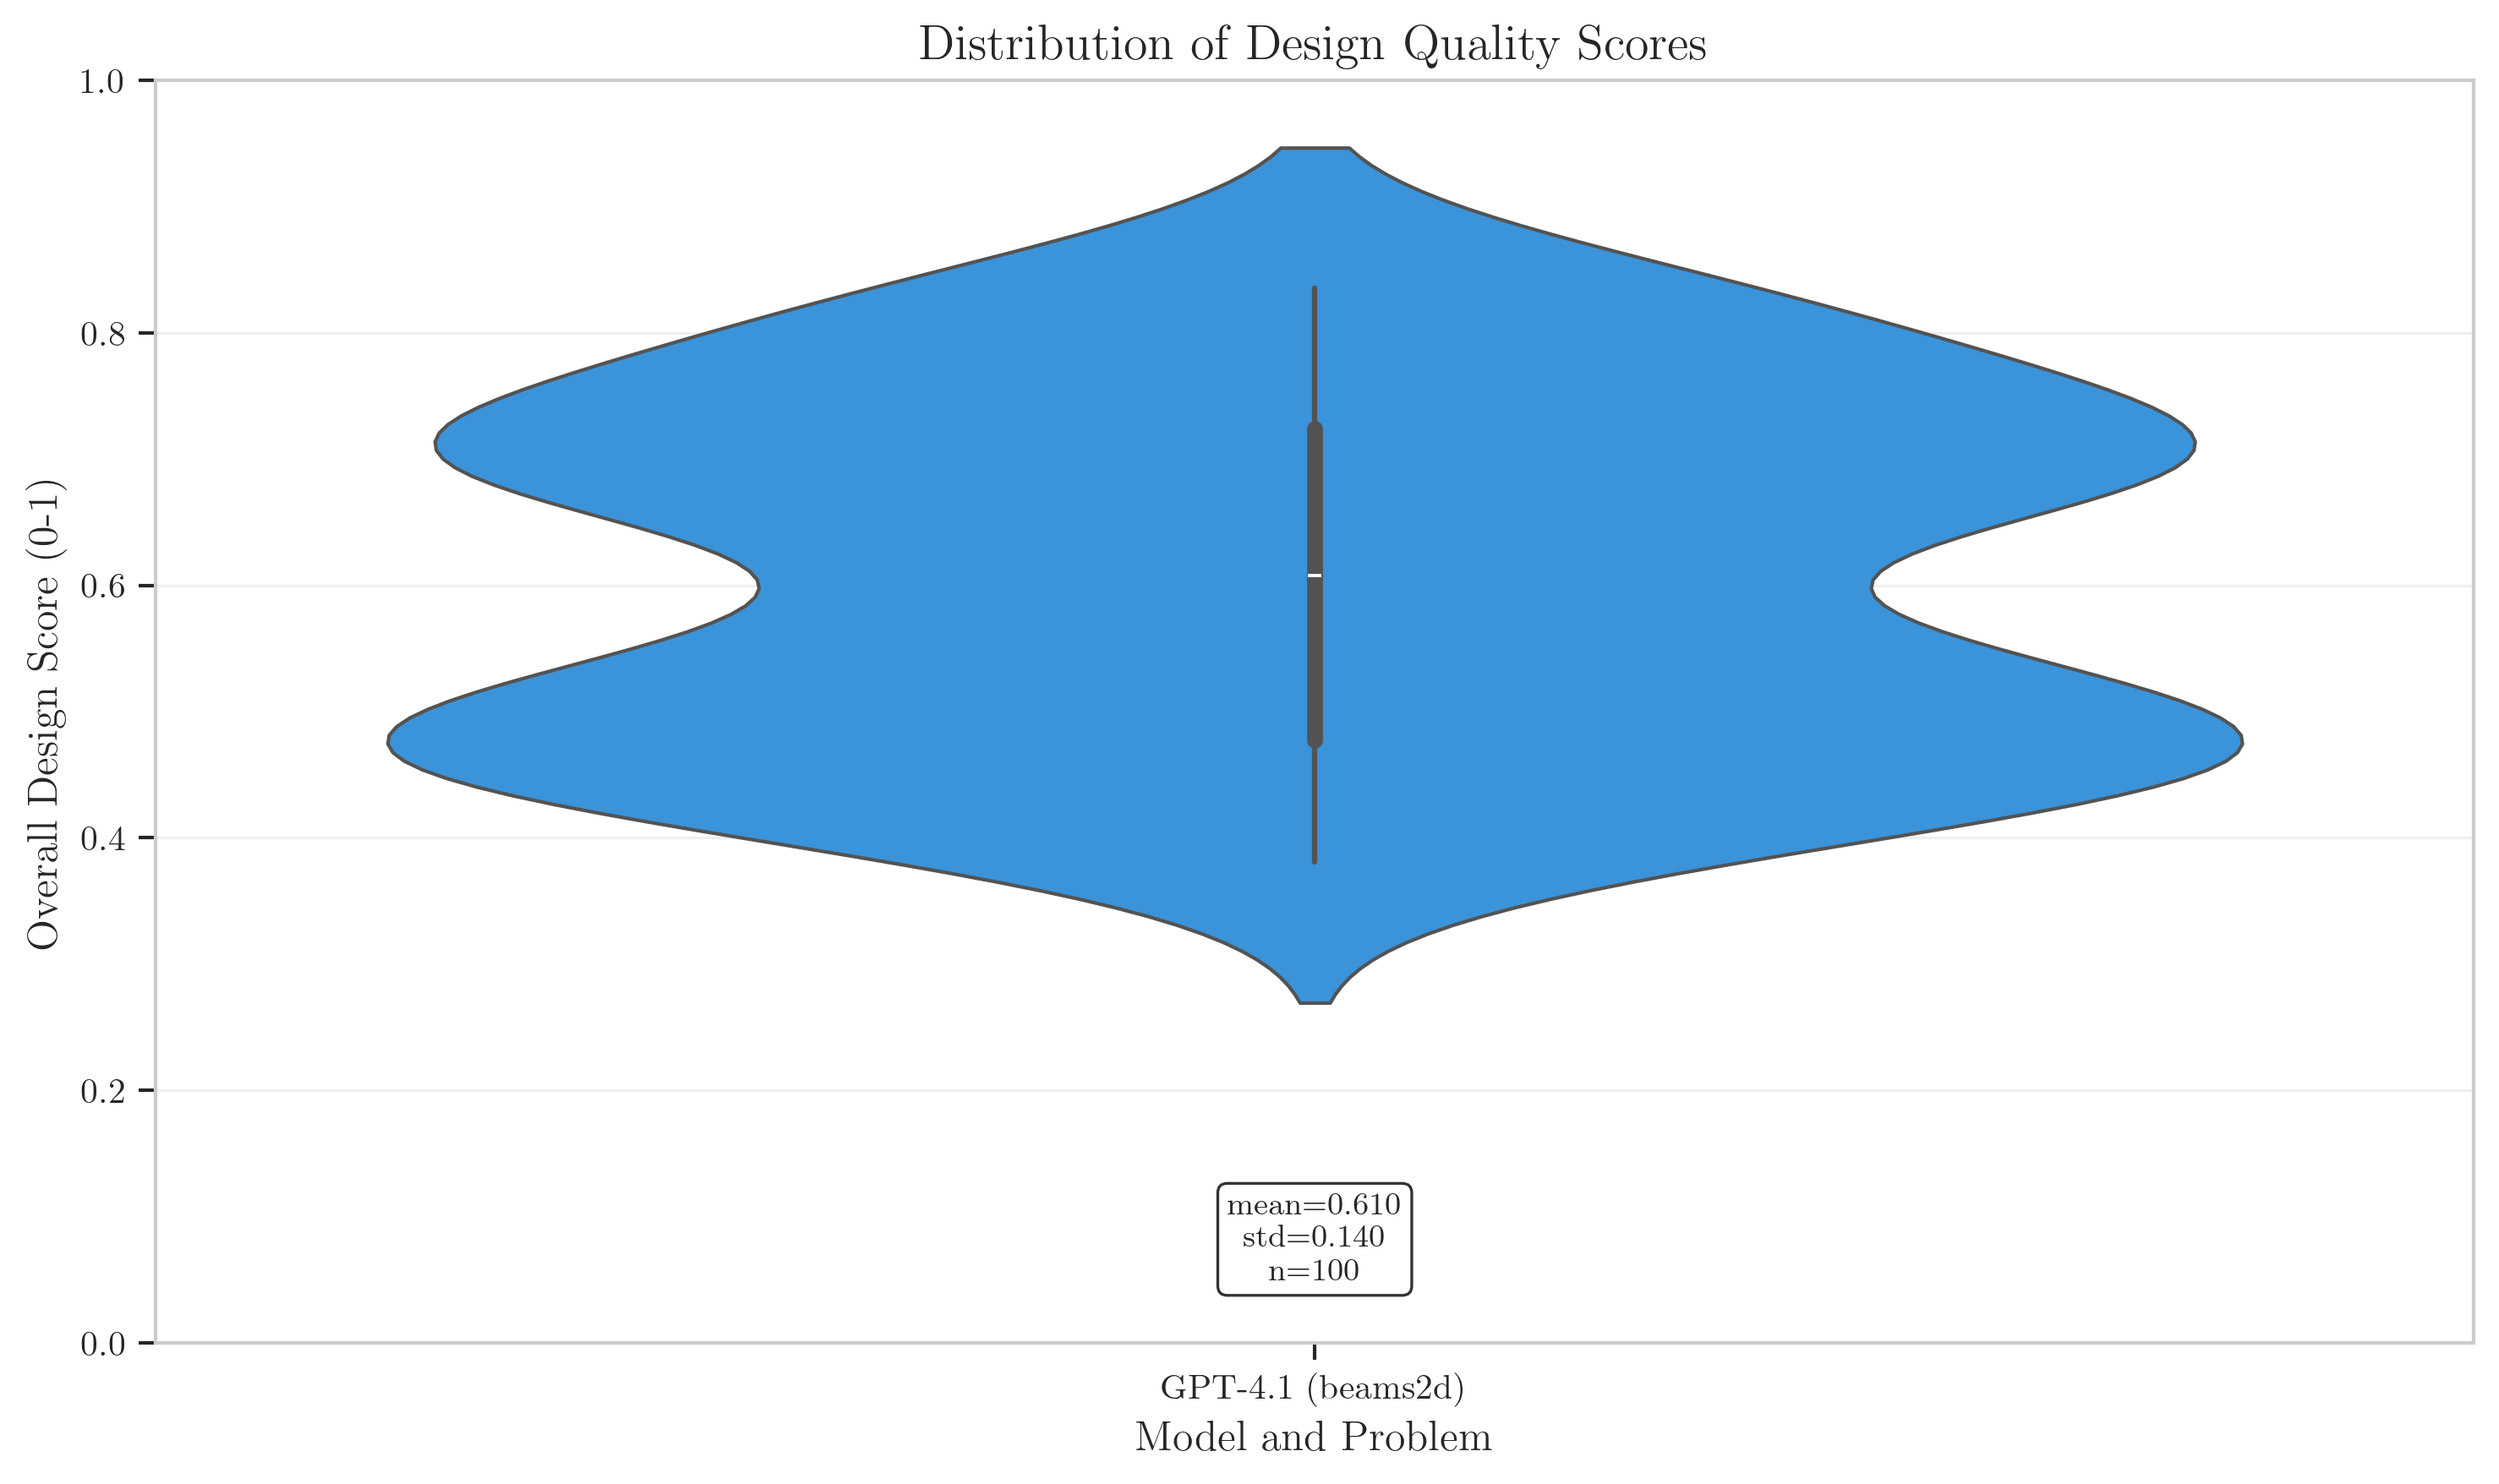
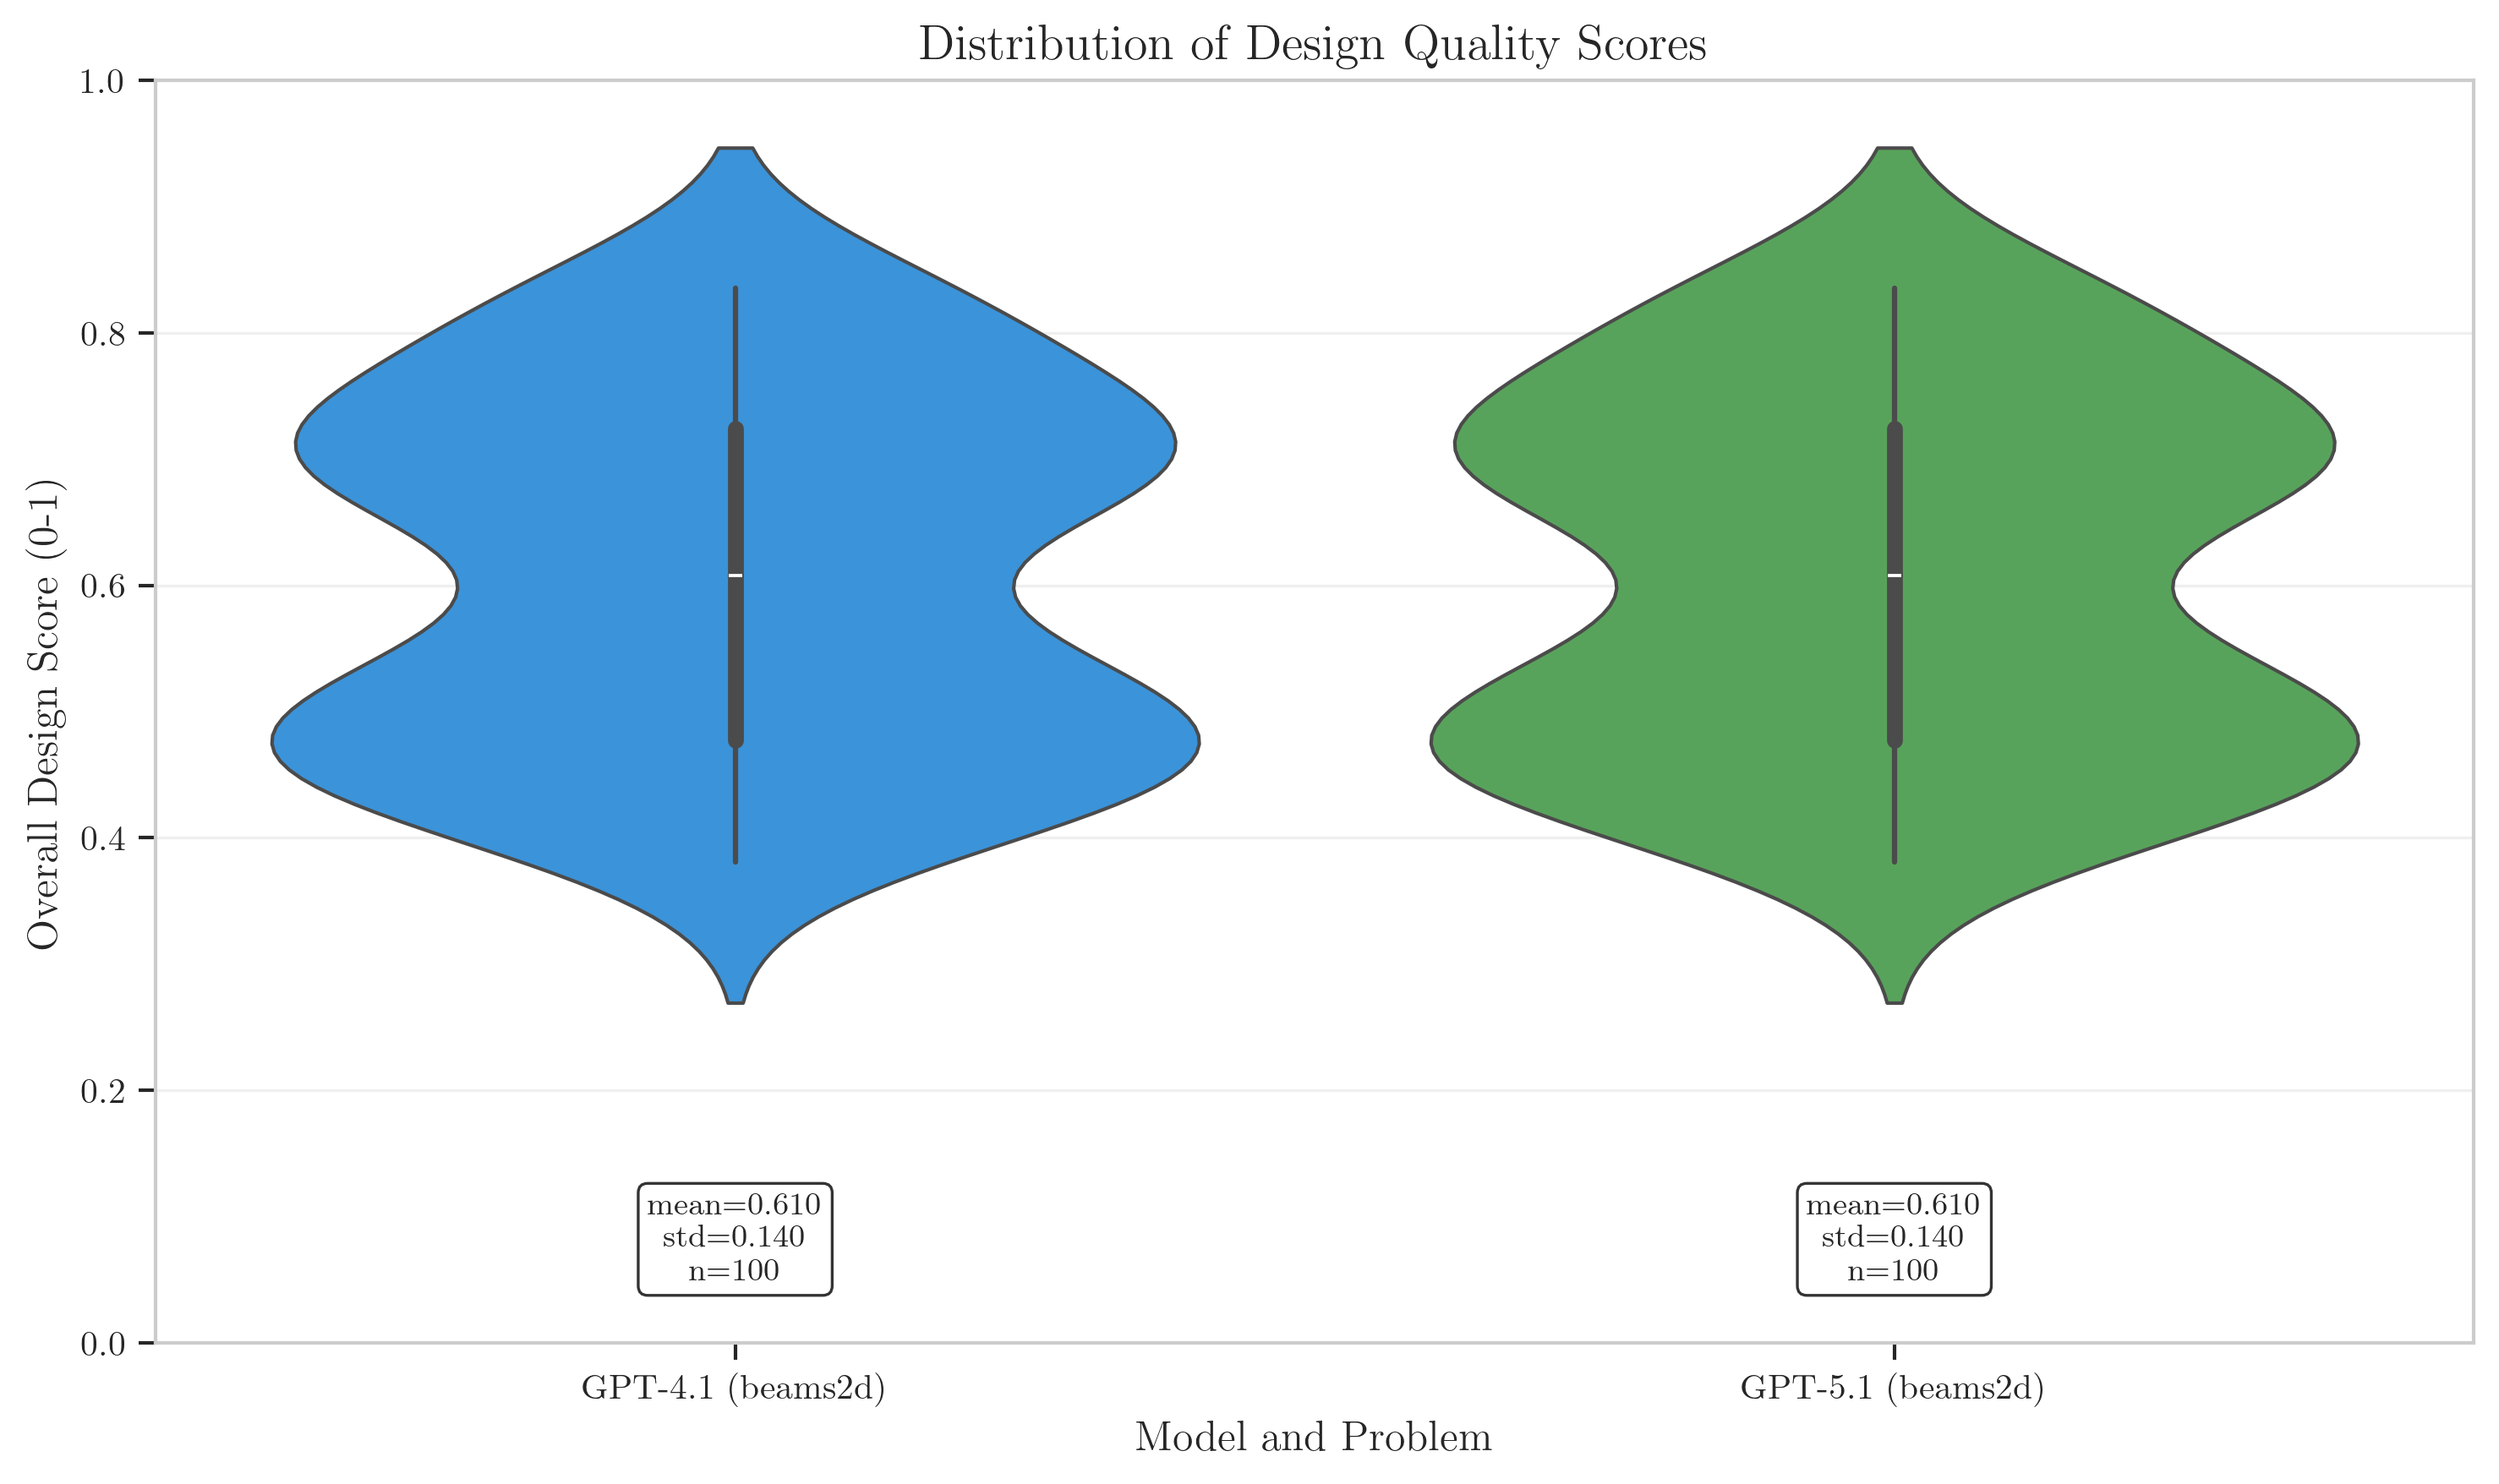
Add gpt 5.1

diff --git a/benchmarks/evaluations/plots/utils.py b/benchmarks/evaluations/plots/utils.py
@@ -32,6 +32,14 @@ DATA_PATHS = {
     / "openai_gpt-4.1/photonics2d/output_quality_global_metrics.csv",
     "gpt_photonics_design": RESULTS_DIR
     / "openai_gpt-4.1/photonics2d/output_quality_design_metrics.csv",
+    "gpt5_beams_global": RESULTS_DIR
+    / "openai_gpt-5.1/beams2d/output_quality_global_metrics.csv",
+    "gpt5_beams_design": RESULTS_DIR
+    / "openai_gpt-5.1/beams2d/output_quality_design_metrics.csv",
+    "gpt5_photonics_global": RESULTS_DIR
+    / "openai_gpt-5.1/photonics2d/output_quality_global_metrics.csv",
+    "gpt5_photonics_design": RESULTS_DIR
+    / "openai_gpt-5.1/photonics2d/output_quality_design_metrics.csv",
     "cgan_beams": Path(__file__).parent.parent.parent.parent
     / "cgan_cnn_2d_beams2d_metrics.csv",
 }
@@ -42,11 +50,12 @@ PLOT_STYLE = {
     "figsize_bars": (12, 10),
     "figsize_violin": (10, 6),
     "dpi": 300,
-    "markers": {"GPT-4.1": "o", "cGAN-CNN": "s"},
+    "markers": {"GPT-4.1": "o", "GPT-5.1": "^", "cGAN-CNN": "s"},
     "colors": {
         "beams2d": "#2196F3",
         "photonics2d": "#4CAF50",
         "GPT-4.1": "#2196F3",
+        "GPT-5.1": "#9C27B0",
         "cGAN-CNN": "#FF9800",
     },
     "alpha": 0.7,
@@ -121,6 +130,39 @@ def get_output_dir():
     return OUTPUT_DIR
 
 
+def _load_global_metrics(path, model, problem):
+    """Load and clean global metrics for a specific model/problem."""
+    if not path.exists():
+        return None
+    df = pd.read_csv(path)
+    df = df.drop_duplicates(subset=["seed", "n_samples"], keep="first")
+    df = df[df["n_samples"] == DEFAULT_N_SAMPLES]
+    df["model"] = model
+    df["problem"] = problem
+    return df
+
+
+def _load_design_metrics(path, model):
+    """Load and clean design-level metrics for a specific model."""
+    if not path.exists():
+        return None
+    df = pd.read_csv(path)
+    df = df.drop_duplicates(subset=["seed", "example_id"], keep="first")
+    df["model"] = model
+    return df
+
+
+def _load_cgan_metrics(path):
+    """Load and clean cGAN baseline metrics."""
+    if not path.exists():
+        return None
+    df = pd.read_csv(path)
+    df = df.rename(columns={"viol": "rvc"})
+    df["model"] = "cGAN-CNN"
+    df["problem"] = "beams2d"
+    return df
+
+
 def load_data():
     """
     Load all metrics CSVs, clean and deduplicate.
@@ -130,51 +172,47 @@ def load_data():
     """
     data = {}
 
-    # GPT-4.1 beams2d global
-    if DATA_PATHS["gpt_beams_global"].exists():
-        df = pd.read_csv(DATA_PATHS["gpt_beams_global"])
-        df = df.drop_duplicates(subset=["seed", "n_samples"], keep="first")
-        df = df[df["n_samples"] == DEFAULT_N_SAMPLES]
-        df["model"] = "GPT-4.1"
-        df["problem"] = "beams2d"
-        data["gpt_beams_global"] = df
-
-    # GPT-4.1 photonics2d global
-    if DATA_PATHS["gpt_photonics_global"].exists():
-        df = pd.read_csv(DATA_PATHS["gpt_photonics_global"])
-        df = df.drop_duplicates(subset=["seed", "n_samples"], keep="first")
-        df = df[df["n_samples"] == DEFAULT_N_SAMPLES]
-        df["model"] = "GPT-4.1"
-        df["problem"] = "photonics2d"
-        data["gpt_photonics_global"] = df
+    # Global metrics
+    global_configs = [
+        ("gpt_beams_global", "GPT-4.1", "beams2d"),
+        ("gpt_photonics_global", "GPT-4.1", "photonics2d"),
+        ("gpt5_beams_global", "GPT-5.1", "beams2d"),
+        ("gpt5_photonics_global", "GPT-5.1", "photonics2d"),
+    ]
+    for key, model, problem in global_configs:
+        df = _load_global_metrics(DATA_PATHS[key], model, problem)
+        if df is not None:
+            data[key] = df
 
     # cGAN baseline
-    if DATA_PATHS["cgan_beams"].exists():
-        df = pd.read_csv(DATA_PATHS["cgan_beams"])
-        df = df.rename(columns={"viol": "rvc"})
-        df["model"] = "cGAN-CNN"
-        df["problem"] = "beams2d"
+    df = _load_cgan_metrics(DATA_PATHS["cgan_beams"])
+    if df is not None:
         data["cgan_beams_global"] = df
 
     # Design-level metrics
-    if DATA_PATHS["gpt_beams_design"].exists():
-        df = pd.read_csv(DATA_PATHS["gpt_beams_design"])
-        df = df.drop_duplicates(subset=["seed", "example_id"], keep="first")
-        df["model"] = "GPT-4.1"
-        data["gpt_beams_design"] = df
-
-    if DATA_PATHS["gpt_photonics_design"].exists():
-        df = pd.read_csv(DATA_PATHS["gpt_photonics_design"])
-        df = df.drop_duplicates(subset=["seed", "example_id"], keep="first")
-        df["model"] = "GPT-4.1"
-        data["gpt_photonics_design"] = df
+    design_configs = [
+        ("gpt_beams_design", "GPT-4.1"),
+        ("gpt_photonics_design", "GPT-4.1"),
+        ("gpt5_beams_design", "GPT-5.1"),
+        ("gpt5_photonics_design", "GPT-5.1"),
+    ]
+    for key, model in design_configs:
+        df = _load_design_metrics(DATA_PATHS[key], model)
+        if df is not None:
+            data[key] = df
 
     return data
 
 
 def get_combined_global_df(data):
     """Combine all global metrics into a single DataFrame."""
-    keys = ["gpt_beams_global", "gpt_photonics_global", "cgan_beams_global"]
+    keys = [
+        "gpt_beams_global",
+        "gpt_photonics_global",
+        "gpt5_beams_global",
+        "gpt5_photonics_global",
+        "cgan_beams_global",
+    ]
     dfs = [data[key] for key in keys if key in data]
     return pd.concat(dfs, ignore_index=True) if dfs else None
 
@@ -192,6 +230,18 @@ def get_combined_design_df(data):
     if "gpt_photonics_design" in data:
         df = data["gpt_photonics_design"].copy()
         df["source"] = "GPT-4.1 (photonics2d)"
+        df["problem"] = "photonics2d"
+        design_dfs.append(df)
+
+    if "gpt5_beams_design" in data:
+        df = data["gpt5_beams_design"].copy()
+        df["source"] = "GPT-5.1 (beams2d)"
+        df["problem"] = "beams2d"
+        design_dfs.append(df)
+
+    if "gpt5_photonics_design" in data:
+        df = data["gpt5_photonics_design"].copy()
+        df["source"] = "GPT-5.1 (photonics2d)"
         df["problem"] = "photonics2d"
         design_dfs.append(df)
 

diff --git a/benchmarks/evaluations/plots/figures/summary_statistics.tex b/benchmarks/evaluations/plots/figures/summary_statistics.tex
@@ -6,6 +6,7 @@
 Model & Problem & N & DPP & MMD & FOG & RVC \\
 \midrule
 GPT-4.1 & beams2d & 10 & 0.5425 ± 0.0975 & 0.1418 ± 0.0259 & 117.0812 ± 113.5176 & 0.0000 ± 0.0000 \\
+GPT-5.1 & beams2d & 10 & 0.5425 ± 0.0975 & 0.1418 ± 0.0259 & 117.0812 ± 113.5176 & 0.0000 ± 0.0000 \\
 cGAN-CNN & beams2d & 10 & 0.0000 ± 0.0000 & 0.1252 ± 0.1019 & 4.7241 ± 10.0531 & 0.6720 ± 0.1589 \\
 \bottomrule
 \end{tabular}
